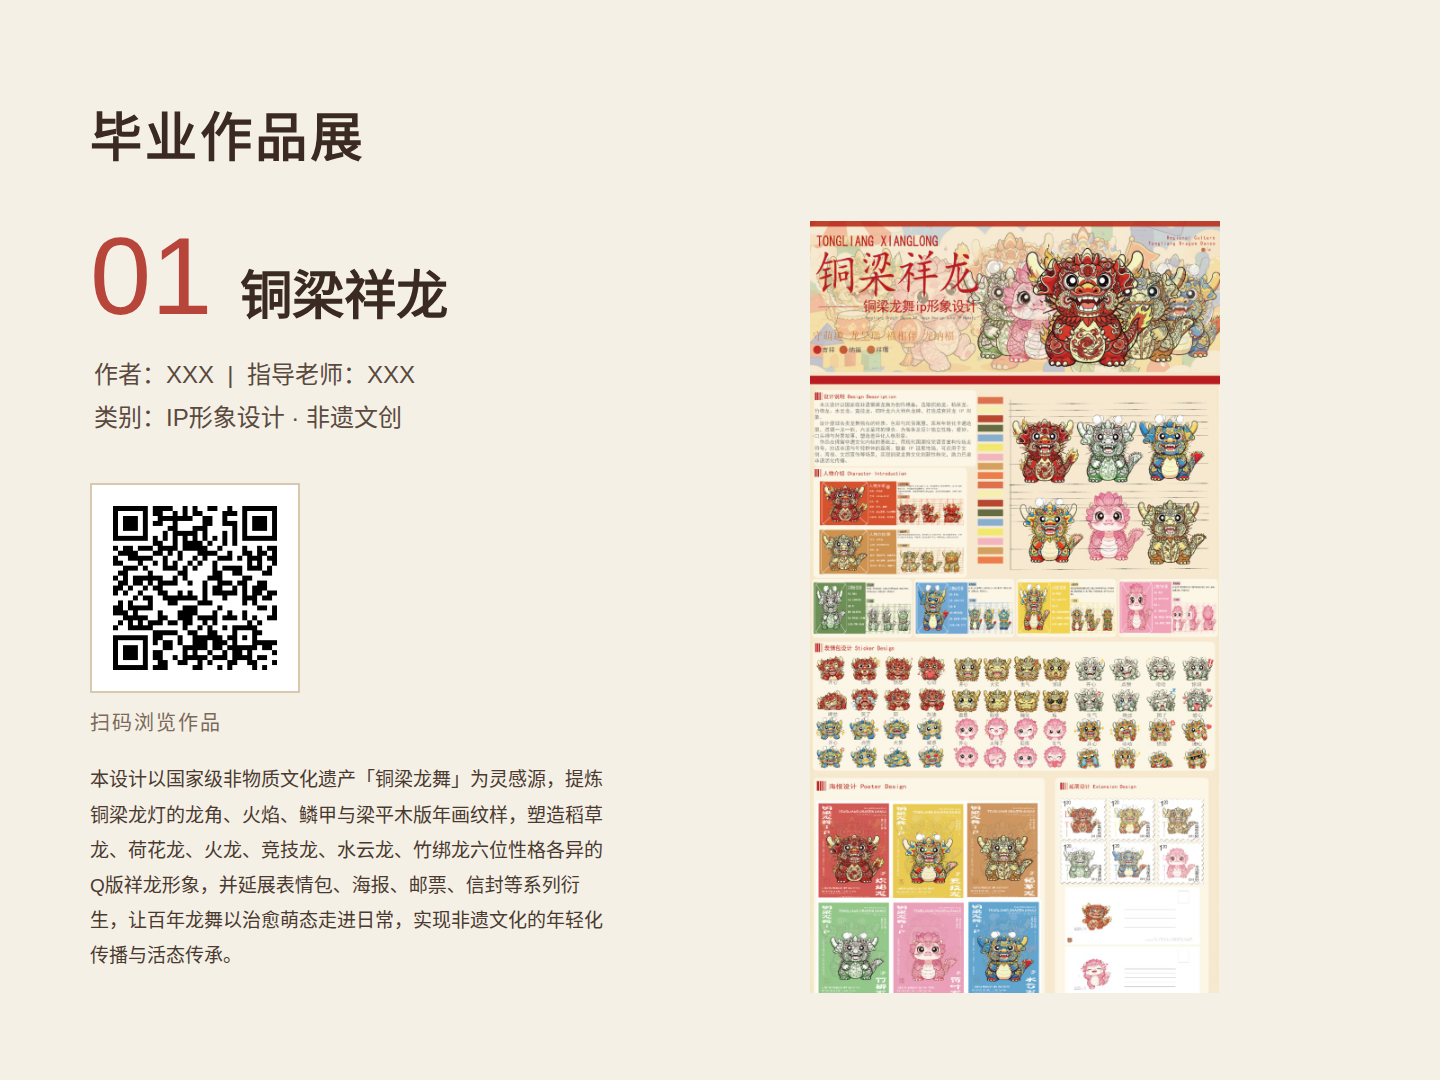
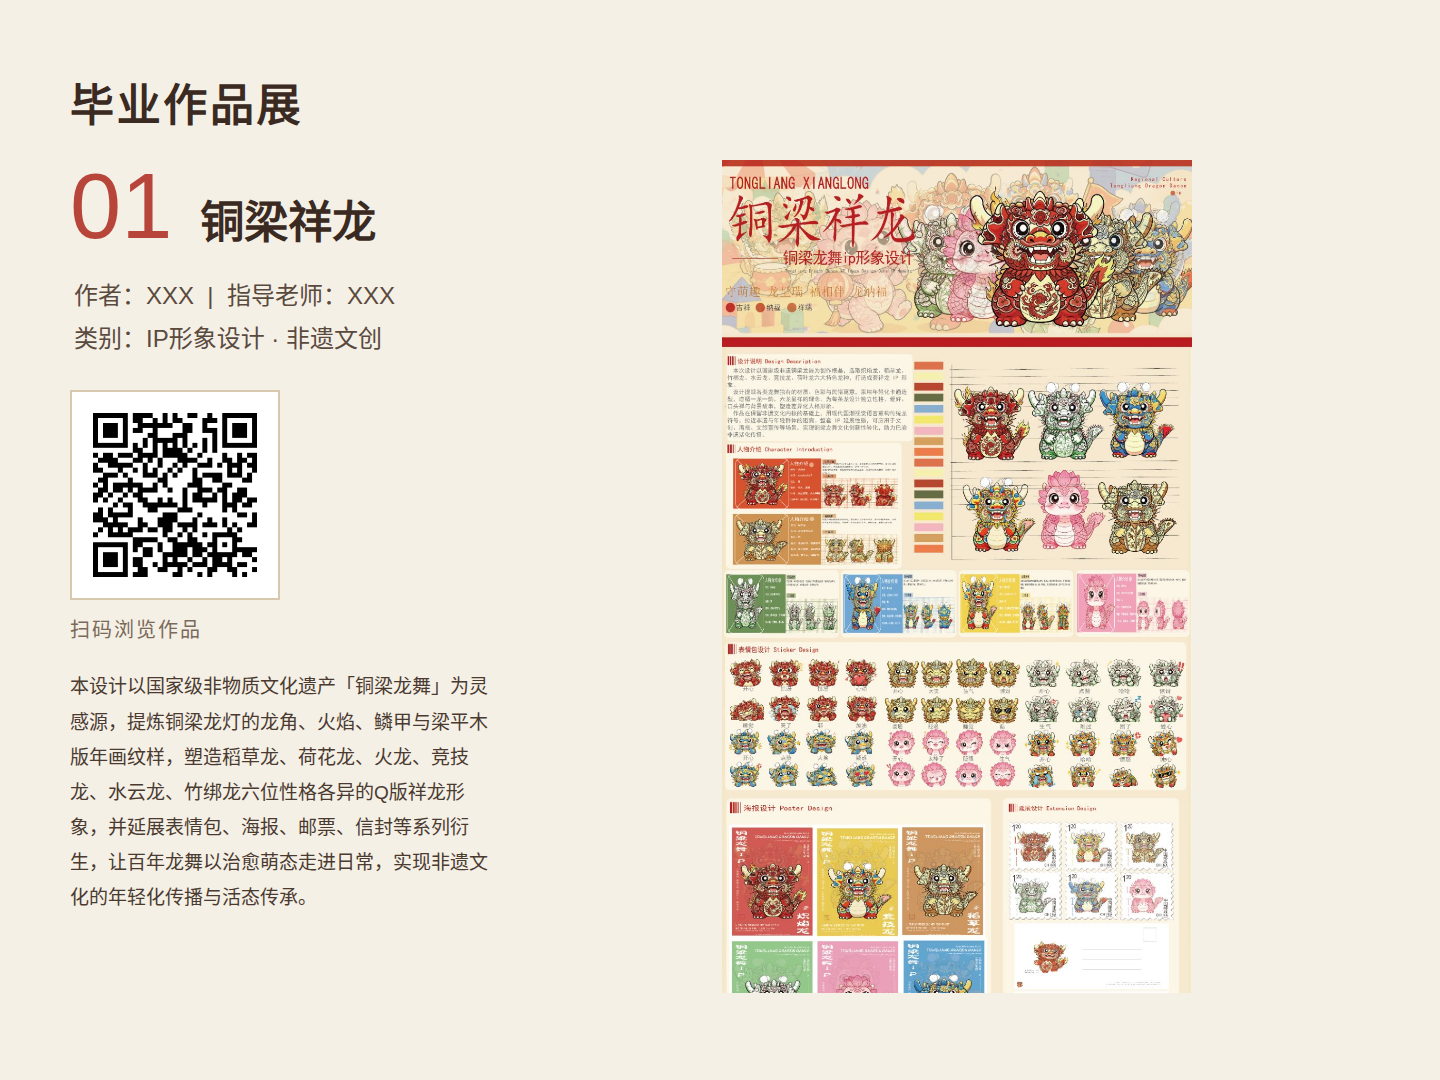
缩略图展板图放大

Changed region(s): [[0.5, 0.1222, 0.875, 0.9167], [0.0312, 0.0611, 0.4375, 0.9167]]

diff --git a/thumbnail.html b/thumbnail.html
@@ -5,21 +5,21 @@
 <style>
 *{margin:0;padding:0;box-sizing:border-box}
 body{width:1440px;height:1080px;font-family:'Noto Sans SC','PingFang SC','Microsoft YaHei',sans-serif;background:#f5f0e6;color:#3a2a22;overflow:hidden}
-.page{width:1440px;height:1080px;padding:70px 90px 60px;display:flex;flex-direction:column;position:relative}
+.page{width:1440px;height:1080px;padding:44px 70px 36px;display:flex;flex-direction:column;position:relative}
 .top{width:56px;height:14px;background:#b8453a;margin-bottom:26px}
-h1{font-size:52px;font-weight:900;letter-spacing:.06em}
-.main{display:flex;gap:70px;margin-top:50px;flex:1;align-items:flex-start}
-.left{width:520px;flex-shrink:0}
+h1{font-size:44px;font-weight:900;letter-spacing:.06em}
+.main{display:flex;gap:44px;margin-top:26px;flex:1;align-items:flex-start}
+.left{width:430px;flex-shrink:0}
 .num{display:flex;align-items:baseline;gap:28px}
-.num .n{font-size:110px;font-weight:200;color:#b8453a;line-height:1}
-.num .t{font-size:52px;font-weight:900}
+.num .n{font-size:92px;font-weight:200;color:#b8453a;line-height:1}
+.num .t{font-size:44px;font-weight:900}
 .meta{margin:22px 0 0 4px;font-size:24px;color:#5a4a3e;line-height:1.8}
-.qrbox{margin-top:44px;text-align:left}
+.qrbox{margin-top:30px;text-align:left}
 .qrbox img{width:210px;height:210px;border:2px solid #d8c9ae;background:#fff;padding:6px}
 .qrbox p{font-size:20px;margin-top:10px;color:#7a6a5a;letter-spacing:.1em}
 .desc{margin-top:26px;font-size:19px;line-height:1.85;font-weight:300;color:#4a3a30}
 .right{flex:1;display:flex;justify-content:center;align-items:flex-start}
-.right img{max-width:100%;max-height:820px;object-fit:contain}
+.right img{max-width:100%;max-height:940px;object-fit:contain}
 .mark{position:absolute;right:90px;bottom:40px;font-size:20px;letter-spacing:.35em;color:#b8453a;font-weight:700}
 </style>
 </head>
